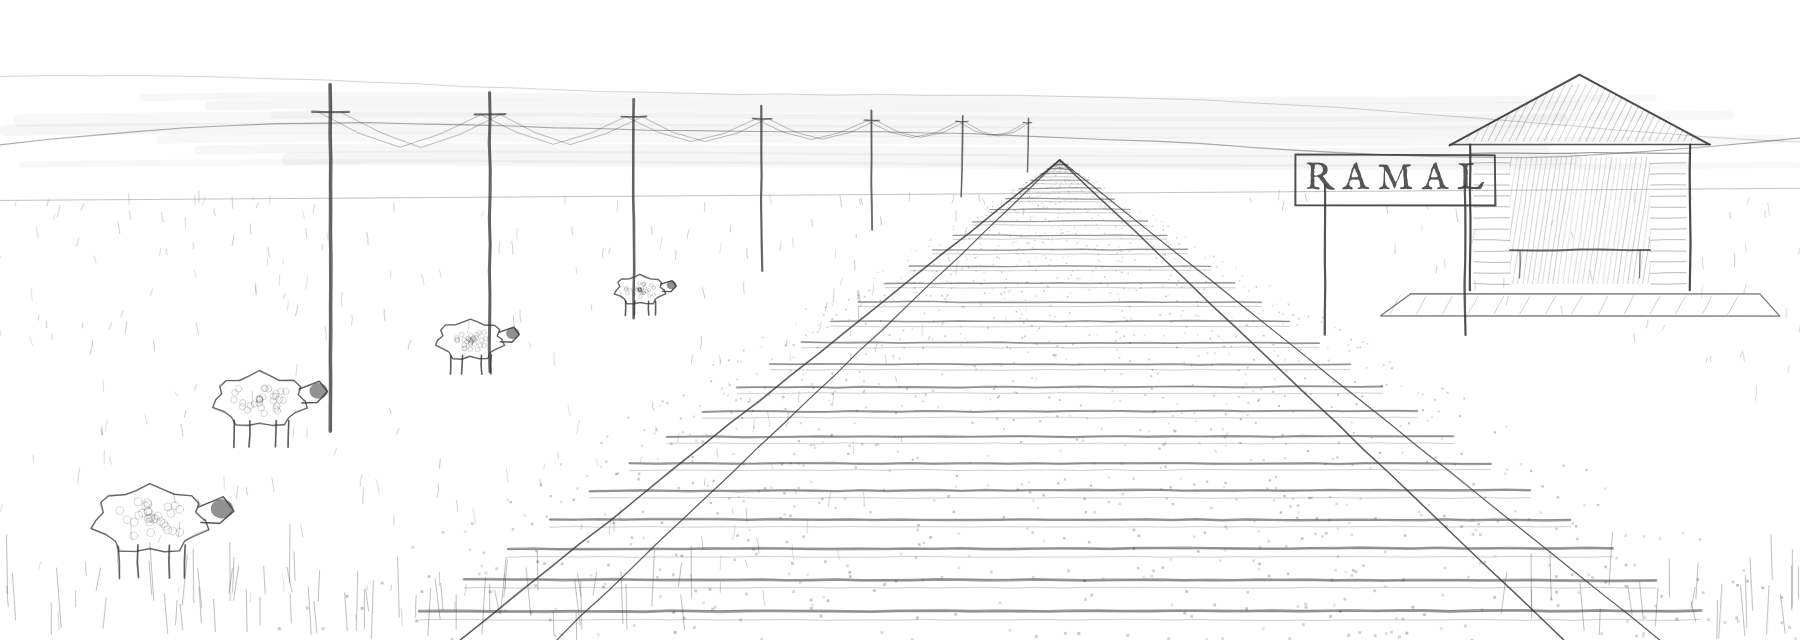
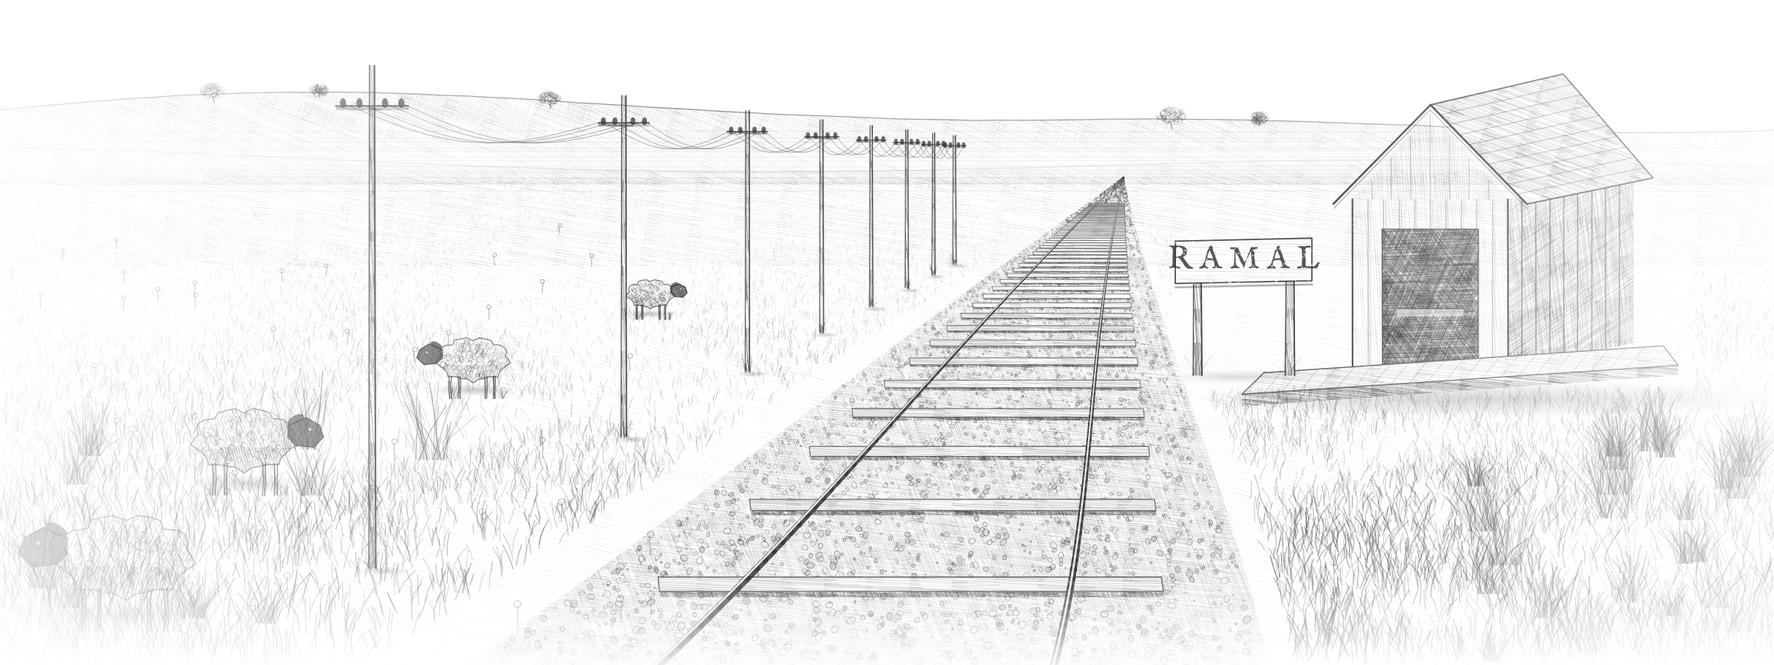
Ramal drawing: redrawn in the same detailed graphite style as the other sketches
Claude-Session: https://claude.ai/code/session_01U5hUvWhXASwMZuxfPX8HXV

Changed region(s): [[0.0, 0.0938, 1.0, 1.0], [0.248, 0.25, 0.279, 0.3125], [0.093, 0.125, 0.124, 0.1562]]

diff --git a/estate/index.html b/estate/index.html
@@ -402,7 +402,7 @@ body.page-id-17 #ramal .ramal-more a{color:inherit;text-underline-offset:3px}
           <p class="intro">Our Sonoma vineyard sits at 23900 Ramal Road, on the western side of Carneros. A few small things we have learned about the place.</p>
         </div>
       </div>
-      <figure class="ramal-plate"><img src="../wp-content/plugins/lumist-estate-artwork/assets/estate-art/09-ramal-station-pencil-transparent.webp" alt="Pencil drawing of a small railway flag stop with a sign reading Ramal, sheep grazing beside the track" loading="lazy"><figcaption>The old Ramal flag stop, as we imagine it.</figcaption></figure>
+      <figure class="ramal-plate"><img src="../wp-content/plugins/lumist-estate-artwork/assets/estate-art/09-ramal-station-pencil-transparent.webp?v=2" alt="Pencil drawing of a small railway flag stop with a sign reading Ramal, sheep grazing beside the track" loading="lazy"><figcaption>The old Ramal flag stop, as we imagine it.</figcaption></figure>
       <ol class="ramal-stories"><li><span class="rn">I</span><div><h3>The rams</h3><p>Long before vines, this was sheep country. Los Carneros means “the rams”, and the name stuck to these low hills by the bay. One of the first vineyards in the area was planted on the Sonoma side in the late 1830s. The sheep moved on. The wind stayed.</p></div></li><li><span class="rn">II</span><div><h3>A station called Branch</h3><p><em>Ramal</em> is Spanish for a branch line, and there was once a small Southern Pacific stop of that name here, with no stationmaster and no ticket office. By the early 1950s no passengers or freight had come through for two years, and in 1953 the railroad took Ramal off its maps. The road still answers to the old name.</p></div></li><li><span class="rn">III</span><div><h3>From the edge of the bay</h3><p>In 1878 a railroad was laid from the edge of the bay up to the town of Sonoma, carrying the valley’s harvests toward the wider world. The track east of Schellville is still in use. Out here, things that work tend to last.</p></div></li><li><span class="rn">IV</span><div><h3>The farmhouse</h3><p>At the heart of the ranch sits a small farmhouse. Records say it was built in 1924, before the vineyard and long before the wine. It has watched pasture turn into rows of vines, one season at a time.</p></div></li><li><span class="rn">V</span><div><h3>Water that comes back</h3><p>Two ponds keep the vines going through the dry summer: one fills with winter rain running off the hills, the other with recycled water from the local sanitation district. Nothing grand, just a quiet way of wasting less.</p></div></li><li><span class="rn">VI</span><div><h3>On a clear day</h3><p>Most mornings the fog sits low over the rows. On a clear day you can see all the way to the San Francisco skyline: a reminder of how close the city is, and how far away it feels.</p></div></li></ol>
       <p class="ramal-more"><a href="../stories-from-ramal-road/">Read the full story in the Journal <span aria-hidden="true">↗</span></a></p>
     </div>

diff --git a/journal/index.html b/journal/index.html
@@ -168,7 +168,7 @@ var woocommerce_params = {"ajax_url":"/wp-admin/admin-ajax.php","wc_ajax_url":"/
     </section>
 
     <section class="soon story ramal-card" aria-label="Place">
-      <a class="title" href="../stories-from-ramal-road/" style="display:contents"><div class="frame"><figure class="ph "><span class="im" style="background:#f2f2f2"><img src="../wp-content/plugins/lumist-estate-artwork/assets/estate-art/09-ramal-station-pencil-transparent.webp" alt="Pencil drawing of a small railway flag stop with a sign reading Ramal" loading="lazy" decoding="async" style="filter:none;object-fit:cover;object-position:62% 50%"></span><figcaption><span>Drawing: LUMIST</span></figcaption></figure></div></a>
+      <a class="title" href="../stories-from-ramal-road/" style="display:contents"><div class="frame"><figure class="ph "><span class="im" style="background:#f2f2f2"><img src="../wp-content/plugins/lumist-estate-artwork/assets/estate-art/09-ramal-station-pencil-transparent.webp?v=2" alt="Pencil drawing of a small railway flag stop with a sign reading Ramal" loading="lazy" decoding="async" style="filter:none;object-fit:cover;object-position:62% 50%"></span><figcaption><span>Drawing: LUMIST</span></figcaption></figure></div></a>
       <div>
         <span class="tag">Place · The Sonoma vineyard</span>
         <h3 style="font-size:clamp(26px,2.6vw,34px)"><a href="../stories-from-ramal-road/" style="color:inherit;text-decoration:none">Stories from Ramal Road.</a></h3>

diff --git a/stories-from-ramal-road/index.html b/stories-from-ramal-road/index.html
@@ -148,7 +148,7 @@ var woocommerce_params = {"ajax_url":"/wp-admin/admin-ajax.php","wc_ajax_url":"/
     </div>
   </div>
 </header><main id="main" class="publication wrap"><article class="post type-post essay-stories-from-ramal-road"><div class="essay essay-ramal">
-<figure class="plate"><img src="../wp-content/plugins/lumist-estate-artwork/assets/estate-art/09-ramal-station-pencil-transparent.webp" alt="Pencil drawing of a small railway flag stop with a sign reading Ramal, sheep grazing beside the track" loading="eager"><figcaption class="credit">The old Ramal flag stop, as we imagine it. Drawing: LUMIST.</figcaption></figure>
+<figure class="plate"><img src="../wp-content/plugins/lumist-estate-artwork/assets/estate-art/09-ramal-station-pencil-transparent.webp?v=2" alt="Pencil drawing of a small railway flag stop with a sign reading Ramal, sheep grazing beside the track" loading="eager"><figcaption class="credit">The old Ramal flag stop, as we imagine it. Drawing: LUMIST.</figcaption></figure>
 <div class="head"><div><p class="kick">Place · The Sonoma vineyard</p><h1>Stories from Ramal Road.</h1></div>
 <div><p class="dek">Our Sonoma vineyard sits on Ramal Road, on the western side of Carneros: about three hundred acres of low hills, wind and fog. Six small things we have learned about the place.</p><p class="where">23900 Ramal Road · Sonoma · Los Carneros</p></div></div>
 <div class="notes">
